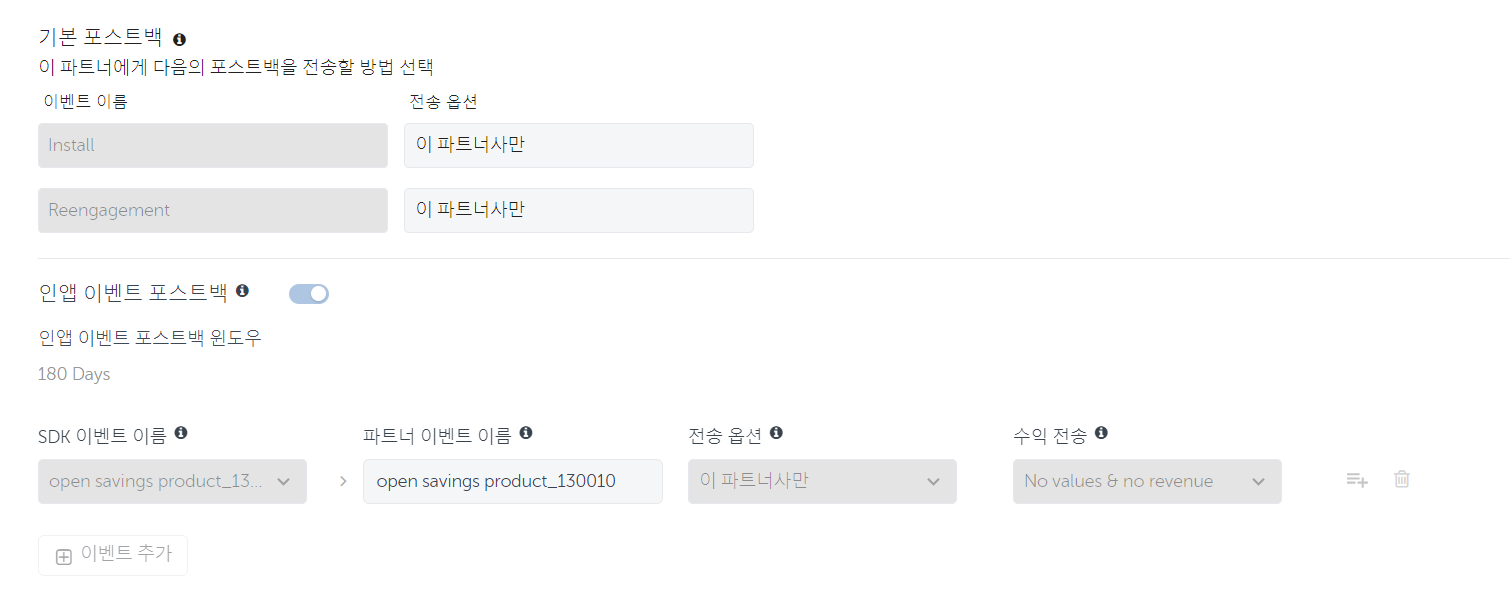
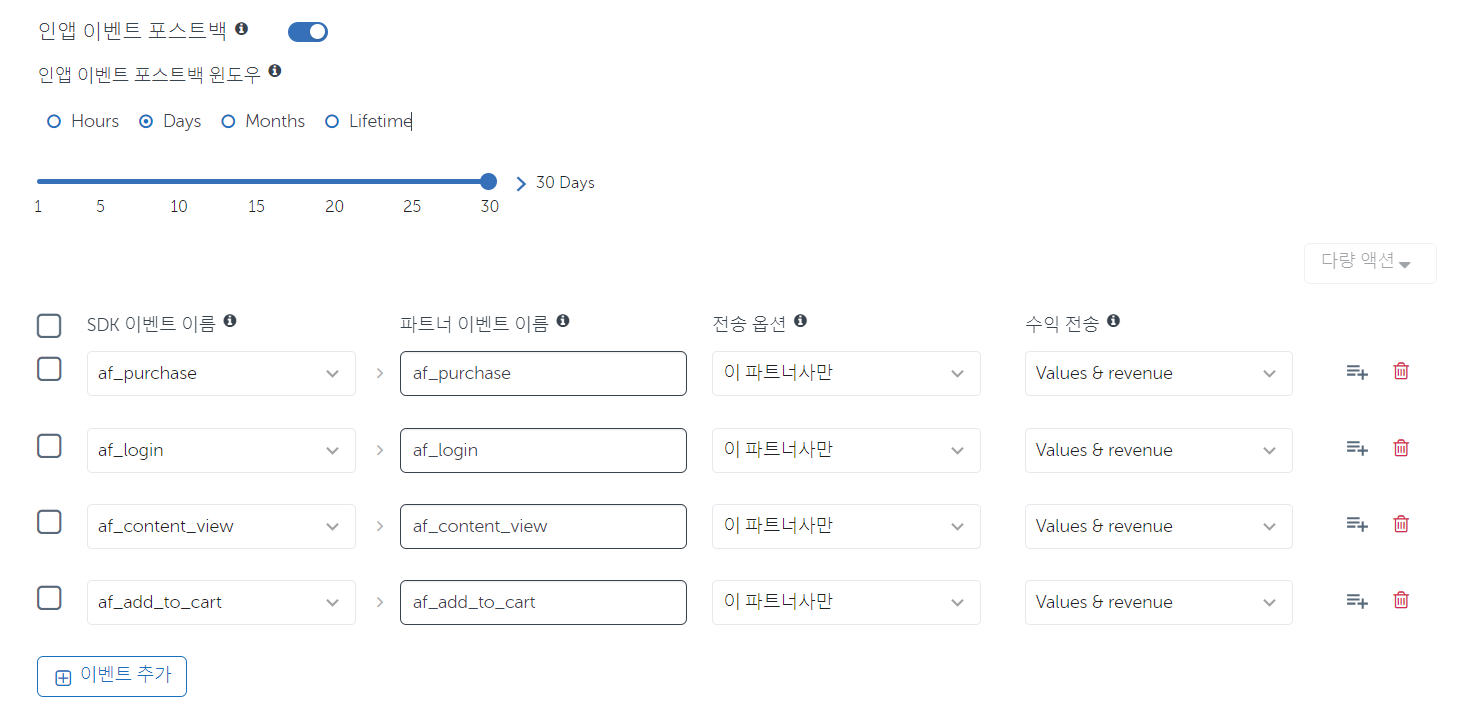
docs: 앱스플라이어 포스트백 이벤트 내용 추가

diff --git a/App/Appsflyer/README.md b/App/Appsflyer/README.md
@@ -13,21 +13,38 @@
 
 ![img_1.png](img_1.png)
 
-2. 링크프라이스에게 전송할 포스트백 이벤트를 설정합니다.
+### 인앱 이벤트 포스트백
+
+2. 전송할 포스트백 이벤트를 설정합니다.
 
 ![img_2.png](img_2.png)
 
-3. 링크프라이스 어트리뷰션 링크를 설정합니다.
+- 앱에 연동되어 있는 SDK 이벤트 이름으로 설정합니다. 
+- 실적 추적을 할 이벤트를 설정합니다. 
+- 파트너 이벤트 이름 설정 및 전송 옵션을 `이 파트너사만`으로 설정합니다.
+
+`인앱 이벤트 포스트백 윈도우의 기간`은 링크프라이스와 협의된 `광고 효과 인정기간`으로 설정합니다.
+
+## 어트리뷰션 링크 설정
+
+링크프라이스 어트리뷰션 링크를 설정합니다.
 
 ![img_3.png](img_3.png)
 
 어트리뷰션 링크의 파라미터 이름 중 `Site ID(af_siteid)`는 링크프라이스 실적 추적을 위한 값으로 사용됩니다.
 
-## 클릭 어트리뷰션
+### 이벤트 권한 설정
 
-![img_4.png](img_4.png)
+파트너가 직접 포스트백을 비활성할 수 있습니다.
 
-클릭 어트리뷰션은 링크프라이스와 협의된 `광고 효과 인정기간`을 적용해주시면 됩니다.
+- 권한(Permission) 페이지에서 `인앱 이벤트 포스트백 설정(Allow to configure in-app event postbacks)` 토글을 ON으로 변경합니다.
+
+![img_5.png](img_5.png)
+
+파트너사에게 인앱 이벤트 포스트백을 설정하도록 허용할 수 있습니다.
+
+포스트백 URL 설정시 담당자에게 연락주시면 설정을 도와드리겠습니다.
+
 
 ### 트래킹 링크 예시
 
@@ -43,3 +60,7 @@
 설정 후 iOS/AOS 트래킹 링크를 링크프라이스 담당자에게 전달해주시면 iOS/AOS 인입과 실적 전송을 확인하도록 하겠습니다.
 
 
+### Reference
+- [인앱 이벤트 포스트백 설정](https://support.appsflyer.com/hc/ko/articles/208439256)
+- [광고주를 위한 포스트백 문제 해결](https://support.appsflyer.com/hc/ko/articles/14272573202833)
+- [연동 파트너 설정](https://support.appsflyer.com/hc/ko/articles/4410395957521)
